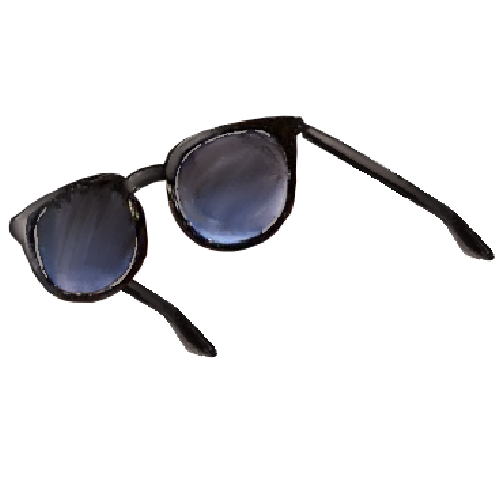
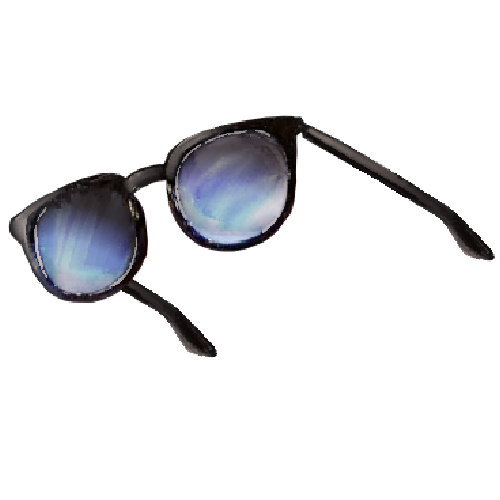
古田 Story一旦あきらめpull

Changed region(s): [[0.33, 0.3, 0.57, 0.51], [0.06, 0.42, 0.27, 0.6]]

diff --git a/src/main/java/story/Stageclear1.java b/src/main/java/story/Stageclear1.java
@@ -8,6 +8,7 @@ import javafx.scene.control.Button;
 import javafx.scene.image.Image;
 import javafx.scene.image.ImageView;
 import javafx.scene.layout.HBox;
+import javafx.scene.layout.StackPane;
 import javafx.scene.layout.VBox;
 import javafx.scene.media.AudioClip;
 import javafx.scene.text.Text;
@@ -40,8 +41,9 @@ public class Stageclear1 extends Application {
 		// ウィンドウの中身を決定
 		stage.setScene(clear());
 		stage.setTitle("stage1CLEAR");
-		// ★追加
+
 		stage.setMaximized(true);
+
 		stage.show();
 	}
 
@@ -129,7 +131,6 @@ public class Stageclear1 extends Application {
 		buttonBox.setSpacing(20);
 		// 中央に配置
 		buttonBox.setAlignment(Pos.CENTER);
-
 		// 音声読み込み
 		clickSound = new AudioClip(
 				getClass().getResource("/music/select.mp3").toExternalForm());
@@ -141,13 +142,6 @@ public class Stageclear1 extends Application {
 				getClass().getResource("/music/cancel.mp3").toExternalForm());
 		// 音量調整
 		cancelSound.setVolume(0.4);
-
-		// スコア表示
-		Text scoreLabel = new Text();
-
-		// ★引数で受け取った score 変数を使ってテキストを設定する形に変更
-		scoreLabel.setText("SCORE: " + this.score);
-		scoreLabel.setStyle("-fx-font-size: 30px; -fx-fill:  gray;");
 
 		// 次に進むボタン
 		Button next = new Button("次のステージへ");
@@ -178,6 +172,10 @@ public class Stageclear1 extends Application {
 			pause.play();
 		});
 
+		// ⭐ スコア表示（重複宣言を削除し、すっきり1つに統合）
+		Text scoreLabel = new Text("SCORE: " + this.score);
+		scoreLabel.setStyle("-fx-font-size: 30px; -fx-fill:  gray;");
+
 		// 戻るボタン
 		Button backButton = new Button("タイトルへ");
 		// ボタンにcssに記述したgame-button2を付与、ボタンサイズを指定
@@ -207,12 +205,14 @@ public class Stageclear1 extends Application {
 
 		// titleと画像とtextをまとめたもの、ボタン2つを箱に入れる。
 		buttonBox.getChildren().addAll(title, textAndImage, scoreLabel, next, backButton);
-
 		// 現在のStage（window）から実際のサイズを取得する
-		Scene scene = new Scene(buttonBox, 1000, 800);
+		//Scene scene = new Scene(buttonBox, 1000, 800);
+		StackPane root = new StackPane();
+		root.getChildren().add(buttonBox);
+		Scene scene = new Scene(root);
 		// ウィンドウの最小限のサイズを設定(吹き出しから全てが飛び出してしまうため)
-		stage.setMinWidth(1000);
-		stage.setMinHeight(800);
+		//stage.setMinWidth(1000);
+		//stage.setMinHeight(800);
 		// CSSを接続
 		scene.getStylesheets().add(
 				getClass().getResource("/css/style.css").toExternalForm());

diff --git a/src/main/java/story/Stageclear3.java b/src/main/java/story/Stageclear3.java
@@ -26,8 +26,10 @@ public class Stageclear3 extends Application {
 		//ウィンドウの中身を決定
 		stage.setScene(clear());
 		stage.setTitle("stage3CLEAR");
-		// ★追加
-		stage.setMaximized(true);
+		
+		stage.setWidth(javafx.stage.Screen.getPrimary().getVisualBounds().getWidth());
+		stage.setHeight(javafx.stage.Screen.getPrimary().getVisualBounds().getHeight());
+		
 		stage.show();
 	}
 
@@ -206,7 +208,7 @@ public class Stageclear3 extends Application {
 		//ウィンドウの最小限のサイズを設定
 		stage.setMinWidth(800);
 		stage.setMinHeight(600);
-
+		// CSSを接続
 		scene.getStylesheets().add(
 				getClass().getResource("/css/style.css").toExternalForm());
 		//画面に表示させたいものを返す

diff --git a/src/main/java/story/Story2.java b/src/main/java/story/Story2.java
@@ -41,8 +41,10 @@ public class Story2 extends Application {
 		//ウィンドウの中身を決定
 		stage.setScene(story2());
 		stage.setTitle("story2");
-		// ★追加
-		stage.setMaximized(true);
+		
+		stage.setWidth(javafx.stage.Screen.getPrimary().getVisualBounds().getWidth());
+		stage.setHeight(javafx.stage.Screen.getPrimary().getVisualBounds().getHeight());
+		
 		stage.show();
 	}
 
@@ -730,5 +732,7 @@ public class Story2 extends Application {
 		startTyping();
 
 		return scene;
+		
 	}
+	
 }

diff --git a/src/main/java/story/Stageclear2.java b/src/main/java/story/Stageclear2.java
@@ -83,8 +83,10 @@ public class Stageclear2 extends Application {
 		// ウィンドウの中身を決定
 		stage.setScene(clear());
 		stage.setTitle("stage2CLEAR");
-		// ★追加
-		stage.setMaximized(true);
+		
+		stage.setWidth(javafx.stage.Screen.getPrimary().getVisualBounds().getWidth());
+		stage.setHeight(javafx.stage.Screen.getPrimary().getVisualBounds().getHeight());
+		
 		stage.show();
 	}
 

diff --git a/src/main/java/story/Story3.java b/src/main/java/story/Story3.java
@@ -41,8 +41,10 @@ public class Story3 extends Application {
 		//ウィンドウの中身を決定
 		stage.setScene(story3());
 		stage.setTitle("story3");
-		// ★追加
-		stage.setMaximized(true);
+		
+		stage.setWidth(javafx.stage.Screen.getPrimary().getVisualBounds().getWidth());
+		stage.setHeight(javafx.stage.Screen.getPrimary().getVisualBounds().getHeight());
+		
 		stage.show();
 	}
 

diff --git a/src/main/java/story/Story4.java b/src/main/java/story/Story4.java
@@ -41,8 +41,10 @@ public class Story4 extends Application {
 		//ウィンドウの中身を決定
 		stage.setScene(story4());
 		stage.setTitle("story4");
-		// ★追加
-		stage.setMaximized(true);
+		
+		stage.setWidth(javafx.stage.Screen.getPrimary().getVisualBounds().getWidth());
+		stage.setHeight(javafx.stage.Screen.getPrimary().getVisualBounds().getHeight());
+		
 		stage.show();
 	}
 